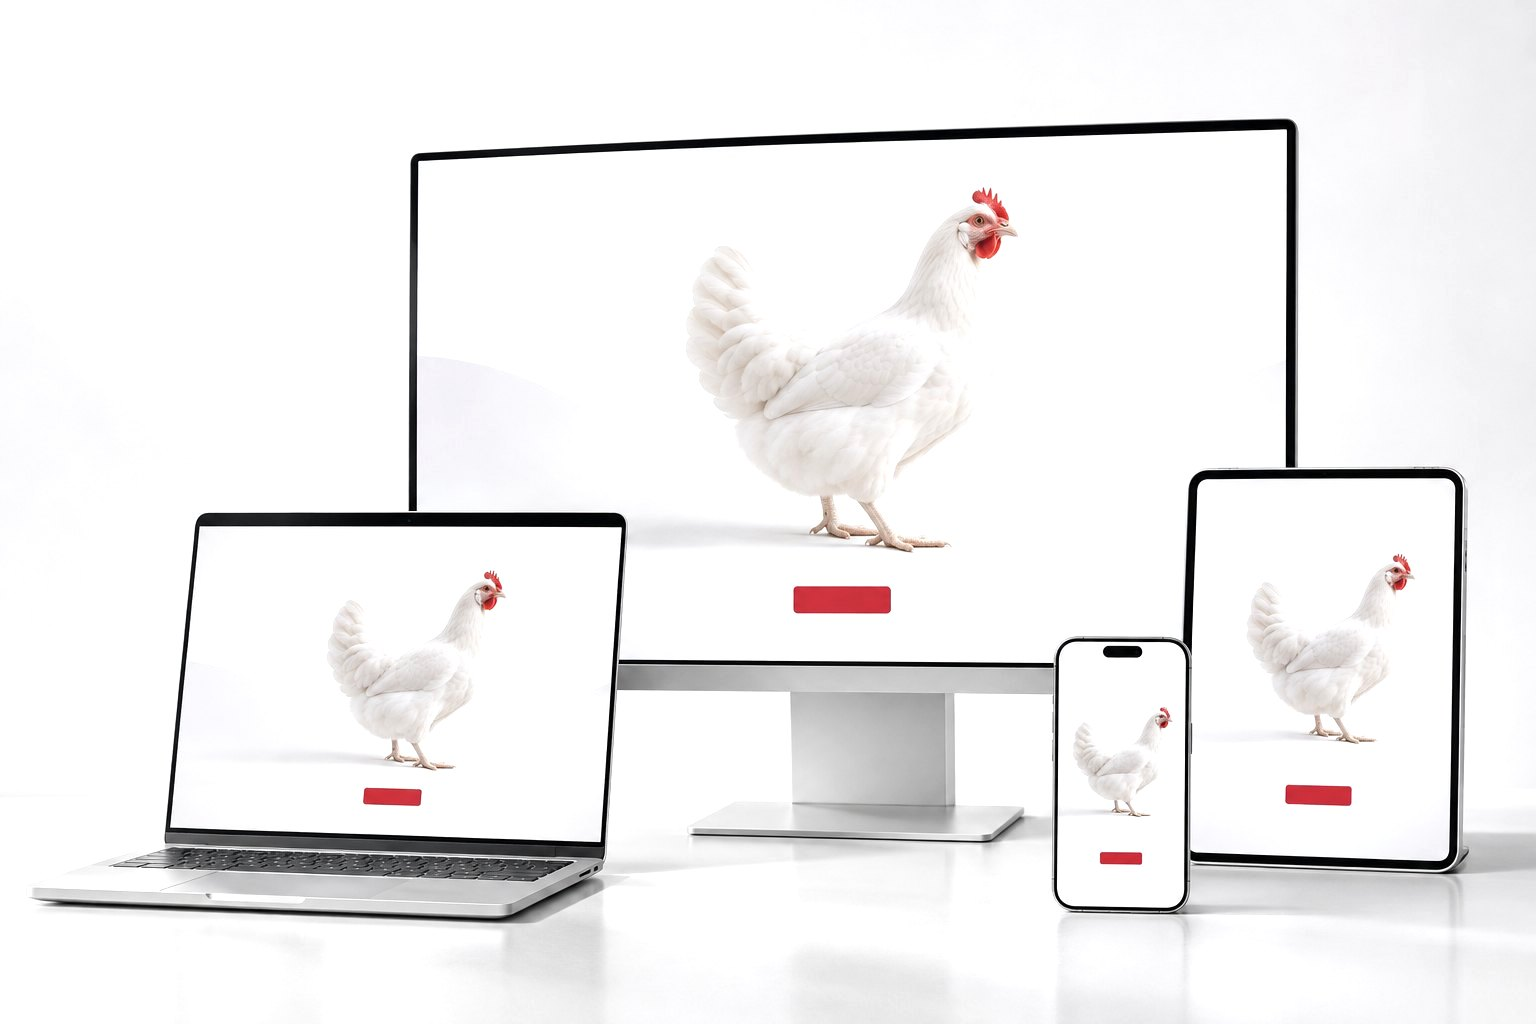
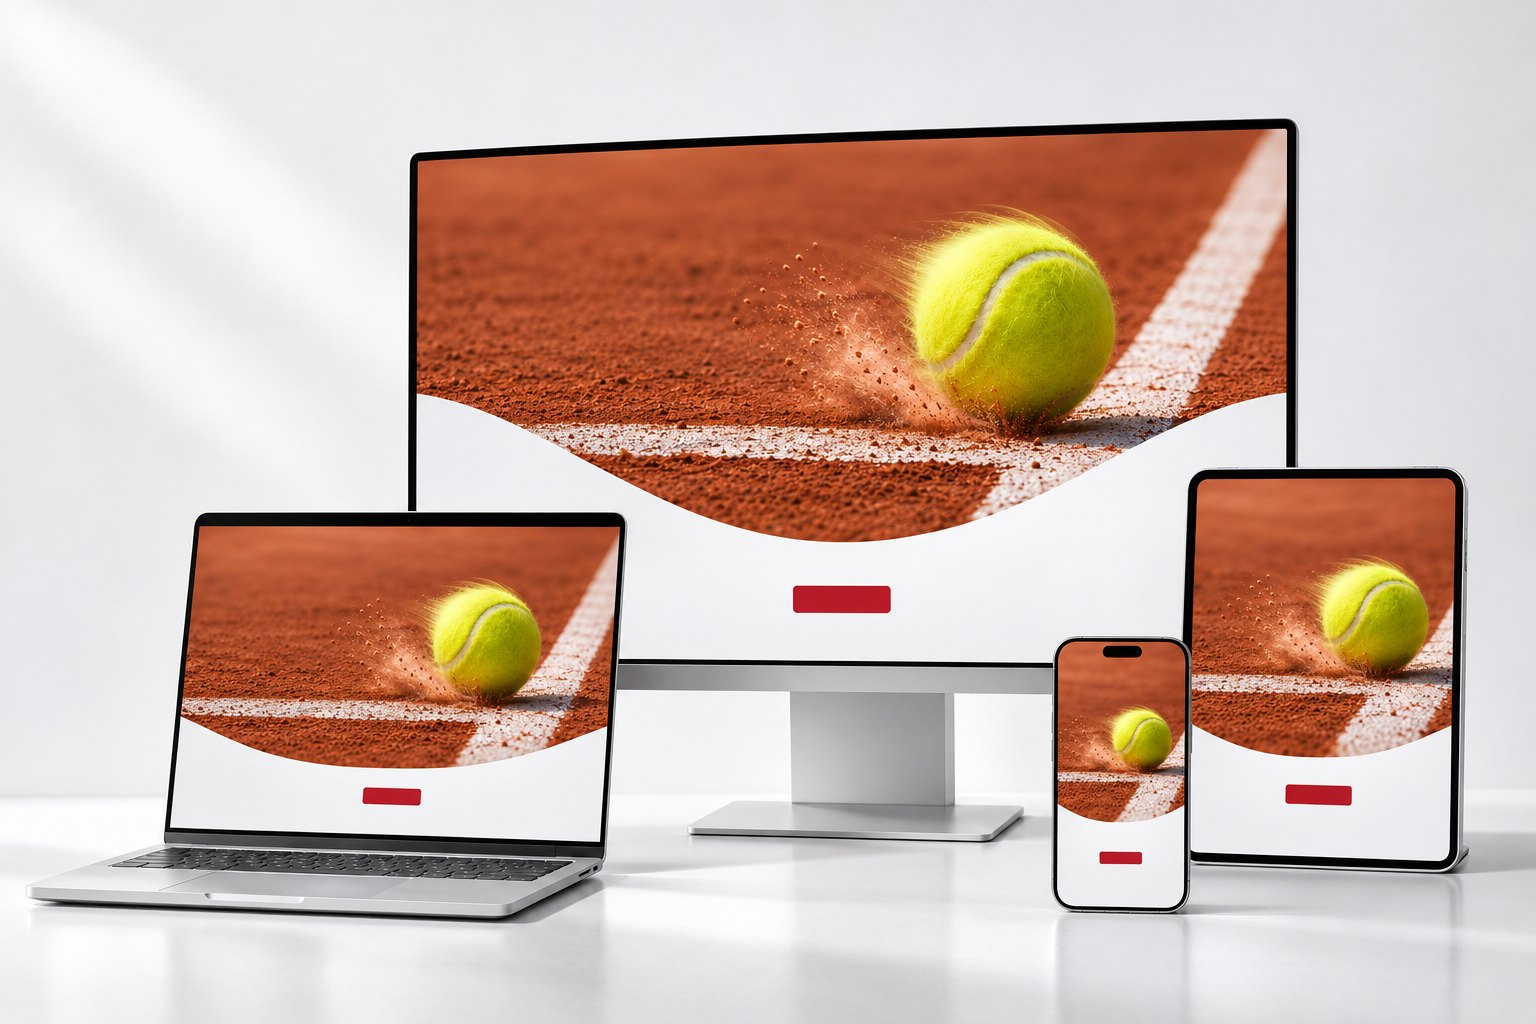
Leistungen: Block Unsere Philosophie vor den Kacheln, neues Geräte-Bild
Claude-Session: https://claude.ai/code/session_01BjkEN2Gdq6Ygi9Db6ym7yL

diff --git a/site/index.html b/site/index.html
@@ -573,6 +573,10 @@ body{line-height:1.55}
   .thero-sub{white-space:normal}
   .thero .thero-cap{bottom:18px;left:max(16px,env(safe-area-inset-left,0px));right:auto}
 }
+.philo{margin-block:clamp(64px,8vw,112px) clamp(40px,5vw,64px);padding-top:clamp(40px,5vw,64px);border-top:1px solid var(--line);display:grid;grid-template-columns:minmax(0,5fr) minmax(0,6fr);gap:clamp(28px,5vw,80px);align-items:start}
+.philo h2{margin:0;text-wrap:balance}.philo h2 .red{color:var(--red)}
+.philo-txt{display:grid;gap:18px}.philo-txt .lead{margin:0;max-width:56ch}
+@media (max-width:860px){.philo{grid-template-columns:1fr}}
 </style>
 </head>
 <body>
@@ -684,8 +688,15 @@ body{line-height:1.55}
           <div><span class="k">Corporate Design</span><h3>Der erste Eindruck zählt.</h3><p>Innerhalb von rund 50 Millisekunden, kürzer als ein Wimpernschlag, entscheiden Ihre Kunden, ob ihnen Ihr Auftritt gefällt. Ein professionelles Corporate Design bestimmt, wie glaubwürdig und hochwertig Ihr Unternehmen wirkt, im Druck genauso wie online.</p></div>
       </div>
       <div class="pillar-row">
-        <div class="img"><img src="img/web-geraete.jpg?v=202611061253" alt="Monitor, Laptop, Tablet und Smartphone zeigen dieselbe Website mit einem weißen Huhn" width="1536" height="1024" loading="lazy"><span class="ai-cap"><b>KI</b>KI-generiert von Capeeshee</span></div>
+        <div class="img"><img src="img/web-geraete.jpg?v=202611071127" alt="Monitor, Laptop, Tablet und Smartphone zeigen dieselbe Website mit dem Tennisball auf der Linie" width="1536" height="1024" loading="lazy"><span class="ai-cap"><b>KI</b>KI-generiert von Capeeshee</span></div>
           <div><span class="k">Web Development</span><h3>Websites, die auf jedem Gerät überzeugen.</h3><p>Schnell, barrierefrei und für Smartphones zuerst gebaut, so wie Google und Ihre Kunden es erwarten. Mit langjähriger Programmiererfahrung und KI-gestützter Entwicklung verbinden wir bewährte Systeme mit individuellen Funktionen, schneller und günstiger als bisher.</p></div>
+      </div>
+      <div class="philo">
+        <div class="philo-head"><p class="eyebrow">Unsere Philosophie</p><h2>Erfolg ist eine Frage der <span class="red">Ausdauer.</span></h2></div>
+        <div class="philo-txt">
+          <p class="lead">In der Werbung ist es wie im Tennis: Nur wer dranbleibt, gewinnt. Eine einzelne Aktion verpufft schnell. Sichtbar wird eine Marke erst, wenn sie kontinuierlich auf allen passenden Kanälen präsent ist.</p>
+          <p class="lead">Doch Sichtbarkeit allein genügt nicht. Ihre Kunden beschäftigen sich nur dann mit Ihrem Angebot, wenn es ihnen eine Lösung bietet. Sie wollen in ihrer Situation abgeholt werden, nicht bedrängt. Denn heute entscheidet der Kunde selbst, wann er welche Werbung sieht und wie weit er sich auf ein Produkt einlässt.</p>
+        </div>
       </div>
       <div class="svc-wrap"><span class="svc-mark" aria-hidden="true">KI-assistierte<br>Workflows</span><div class="services all">
         <article class="svc"><span class="n">01</span><h3>Strategie &amp; Beratung</h3><p>Erst die Richtung klären, dann gestalten.</p><details><summary>Mehr</summary><ul><li>Positionierung und Zielgruppen</li><li>Corporate Identity: Erscheinungsbild-, Image-, Management- und ganzheitlicher Ansatz</li><li>Marken- und Produktstrategie</li><li>Branding und Markenbildung</li><li>Cross-Over-Marketing</li><li>Marketingplan fürs Jahr</li><li>Wettbewerbsbeobachtung</li><li>KI-Ergebnis-Check</li></ul></details></article><article class="svc"><span class="n">02</span><h3>Presse &amp; Öffentlichkeit</h3><p>Damit über Sie gesprochen wird.</p><details><summary>Mehr</summary><ul><li>Public Relations, Pressemitteilungen</li><li>Fachartikel in Branchenmedien</li><li>Kunden- und Mitarbeitermagazine</li></ul></details></article><article class="svc"><span class="n">03</span><h3>Workshops &amp; Begleitung</h3><p>Ihr Team arbeitet selbst mit, wir sichern die Qualität.</p><details><summary>Mehr</summary><ul><li>KI im Marketing richtig briefen</li><li>Kunden-Kompass-Workshop</li><li>Externer Sparringspartner</li><li>Laufende Betreuung als Pauschale</li></ul></details></article><article class="svc"><span class="n">04</span><h3>Marke &amp; Design</h3><p>Ein Auftritt, an dem man Sie sofort erkennt.</p><details><summary>Mehr</summary><ul><li>Corporate Design</li><li>Logo, Signet</li><li>Geschäftsausstattung</li><li>Firmenpräsentationen</li><li>Markenhandbuch mit KI-Vorgaben</li><li>Arbeitgebermarke</li></ul></details></article><article class="svc"><span class="n">05</span><h3>Werbung &amp; Kampagnen</h3><p>Klassische Werbung, auf heute übertragen.</p><details><summary>Mehr</summary><ul><li>Broschüren, Kataloge, Flyer, Plakate</li><li>Anzeigen, Citylights, Außenwerbung</li><li>Verpackungs- und Produktgestaltung</li><li>Druck, Produktion, Veredelung</li><li>Außen- und Innengestaltung</li><li>Beschilderung, Leitsysteme</li><li>Messe und Event</li><li>Recruitingkampagnen</li></ul></details></article><article class="svc"><span class="n">06</span><h3>Content &amp; Text</h3><p>Inhalte, die Kunden dort abholen, wo sie gerade sind.</p><details><summary>Mehr</summary><ul><li>Themenplan</li><li>Texte, Fachbeiträge, Ratgeber</li><li>Foto und Video mit Partnern</li><li>TV-Spots, Video, Animationen</li></ul></details></article><article class="svc"><span class="n">07</span><h3>Social Media</h3><p>Sichtbar, wo Kunden und Fachkräfte täglich sind.</p><details><summary>Mehr</summary><ul><li>Strategie und Redaktionsplan</li><li>LinkedIn, Instagram, Facebook, TikTok</li><li>Recruiting über Social Media</li><li>Mitarbeitende als Botschafter</li></ul></details></article><article class="svc"><span class="n">08</span><h3>Websites &amp; Shops</h3><p>Websites, die Fragen beantworten und Anfragen bringen.</p><details><summary>Mehr</summary><ul><li>Responsive Webdesign, Mobile First</li><li>Web-Programmierung, WordPress und moderne Frameworks</li><li>B2B- und B2C-Online-Shops</li><li>Barrierefreiheit</li><li>Gefunden werden in Google und KI-Suchen</li></ul></details></article><article class="svc"><span class="n">09</span><h3>Apps &amp; digitale Helfer</h3><p>Nützliche Werkzeuge für die Kunden Ihrer Kunden.</p><details><summary>Mehr</summary><ul><li>Produktfinder, Konfiguratoren, Rechner</li><li>Kunden-, Gäste- und Patienten-Apps</li><li>KI-Assistenten mit Ihrem Wissen</li><li>Plugin-Entwicklung, Individualprogrammierung</li><li>Datenbanken und Schnittstellen</li></ul></details></article><article class="svc"><span class="n">10</span><h3>Online-Werbung &amp; SEO</h3><p>Gezielt Reichweite schaffen, ohne große Mediabudgets.</p><details><summary>Mehr</summary><ul><li>Suchmaschinenoptimierung</li><li>Google- und Social-Anzeigen</li><li>Landingpages</li><li>Google-Unternehmensprofil und Bewertungen</li></ul></details></article><article class="svc"><span class="n">11</span><h3>Kunden&shy;bindung &amp; Automati&shy;sierung</h3><p>Kontakt halten, ohne dass es Arbeit macht.</p><details><summary>Mehr</summary><ul><li>Newsletter, automatisch zur richtigen Zeit</li><li>Einfaches CRM</li><li>Anfragen automatisch erfassen</li><li>Bewertungen einholen</li></ul></details></article><article class="svc"><span class="n">12</span><h3>Zahlen &amp; Auswertung</h3><p>Wissen, was wirkt.</p><details><summary>Mehr</summary><ul><li>Website- und Kampagnenauswertungen</li><li>Übersichtliches Monatsreporting</li><li>Klare Empfehlungen statt Datenberge</li></ul></details></article>
